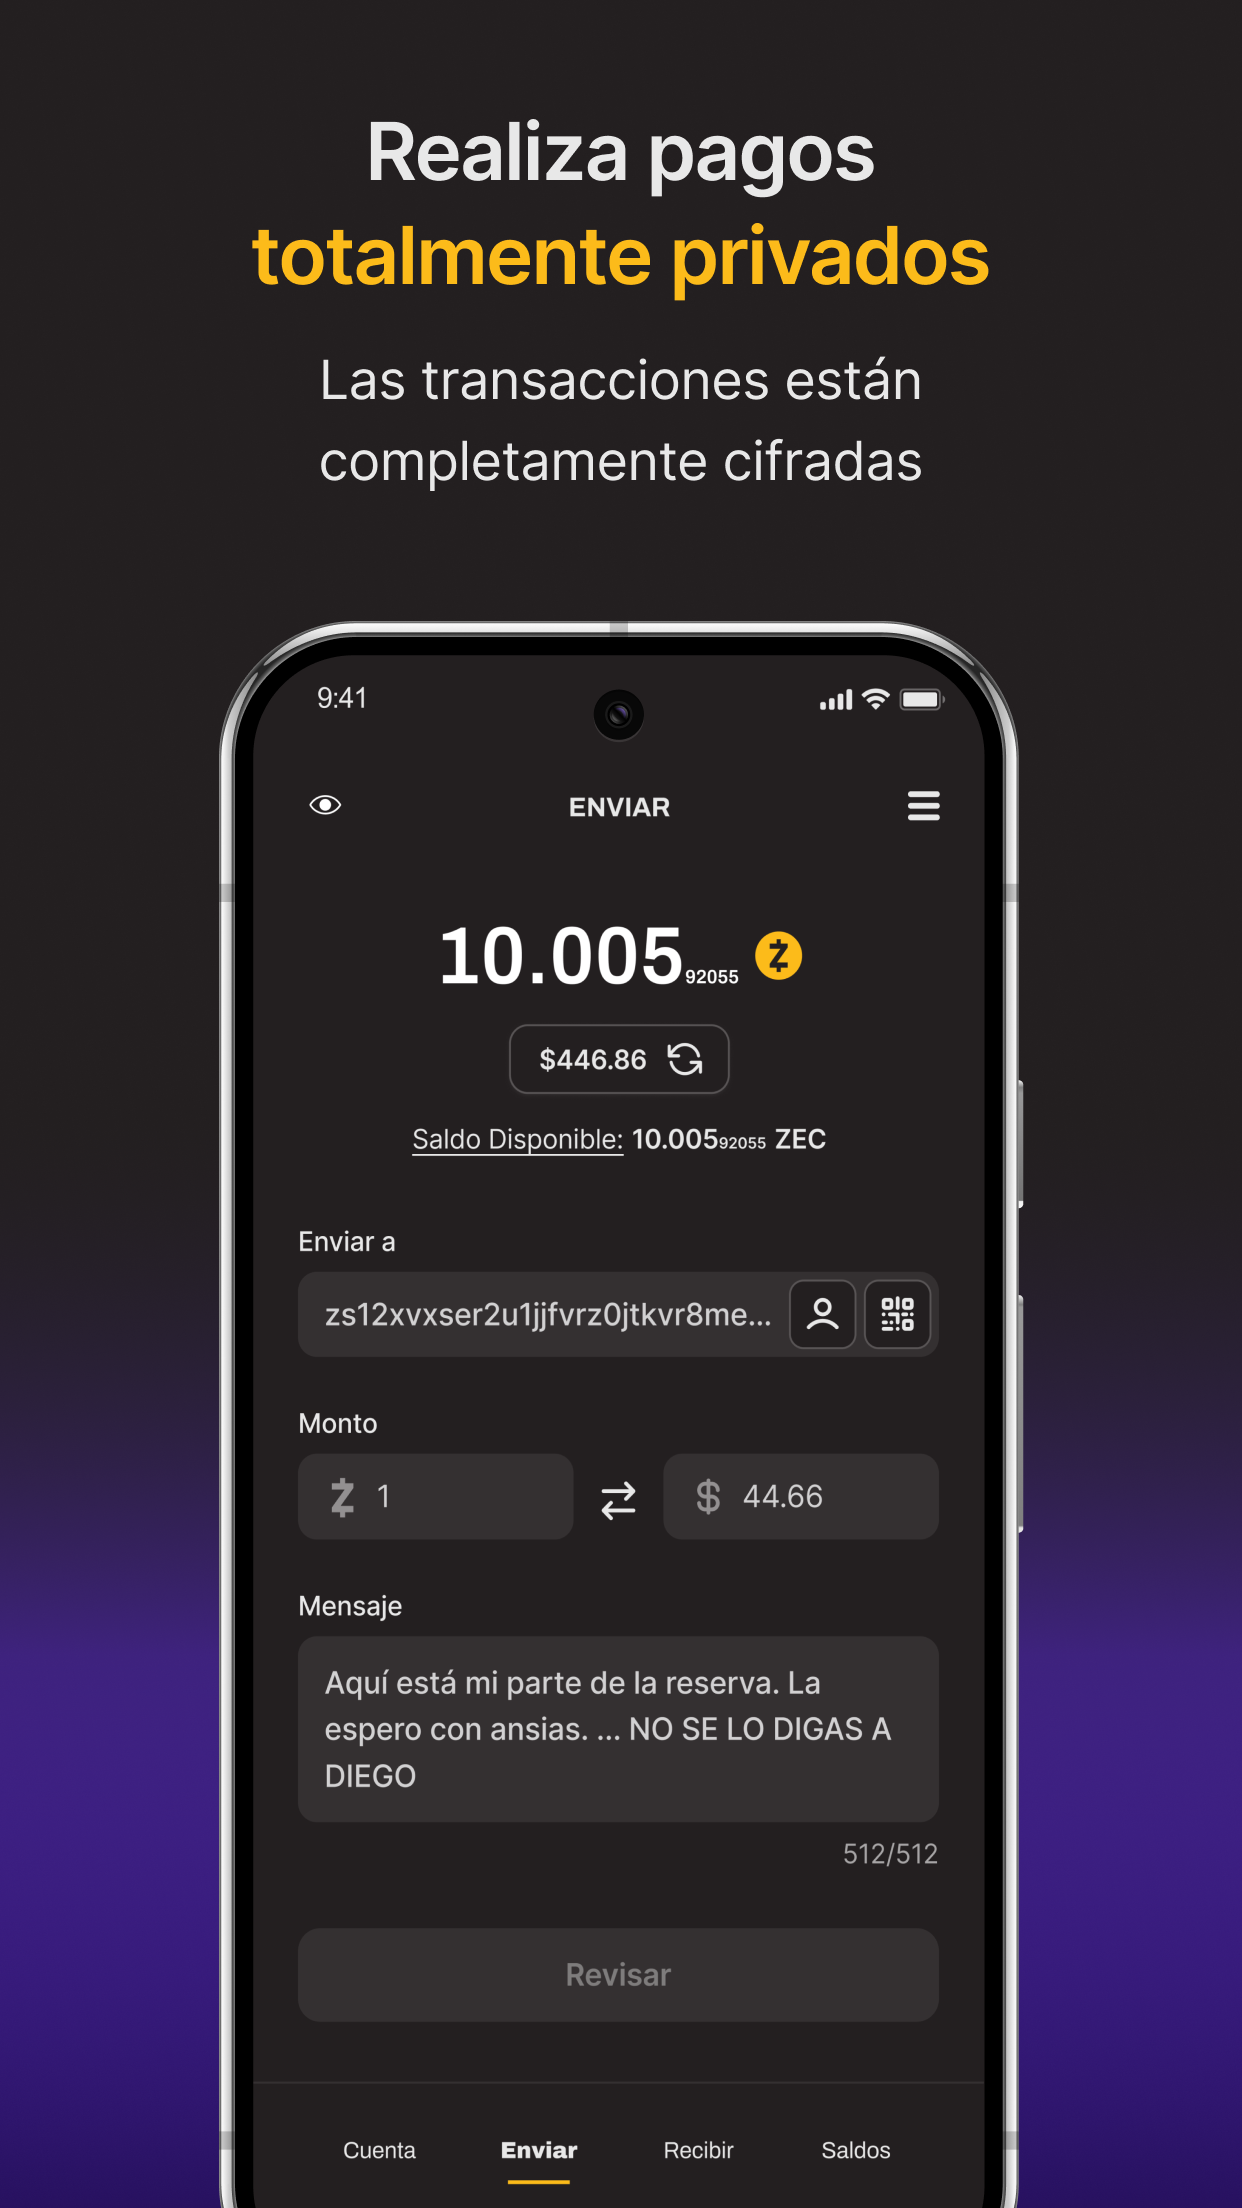
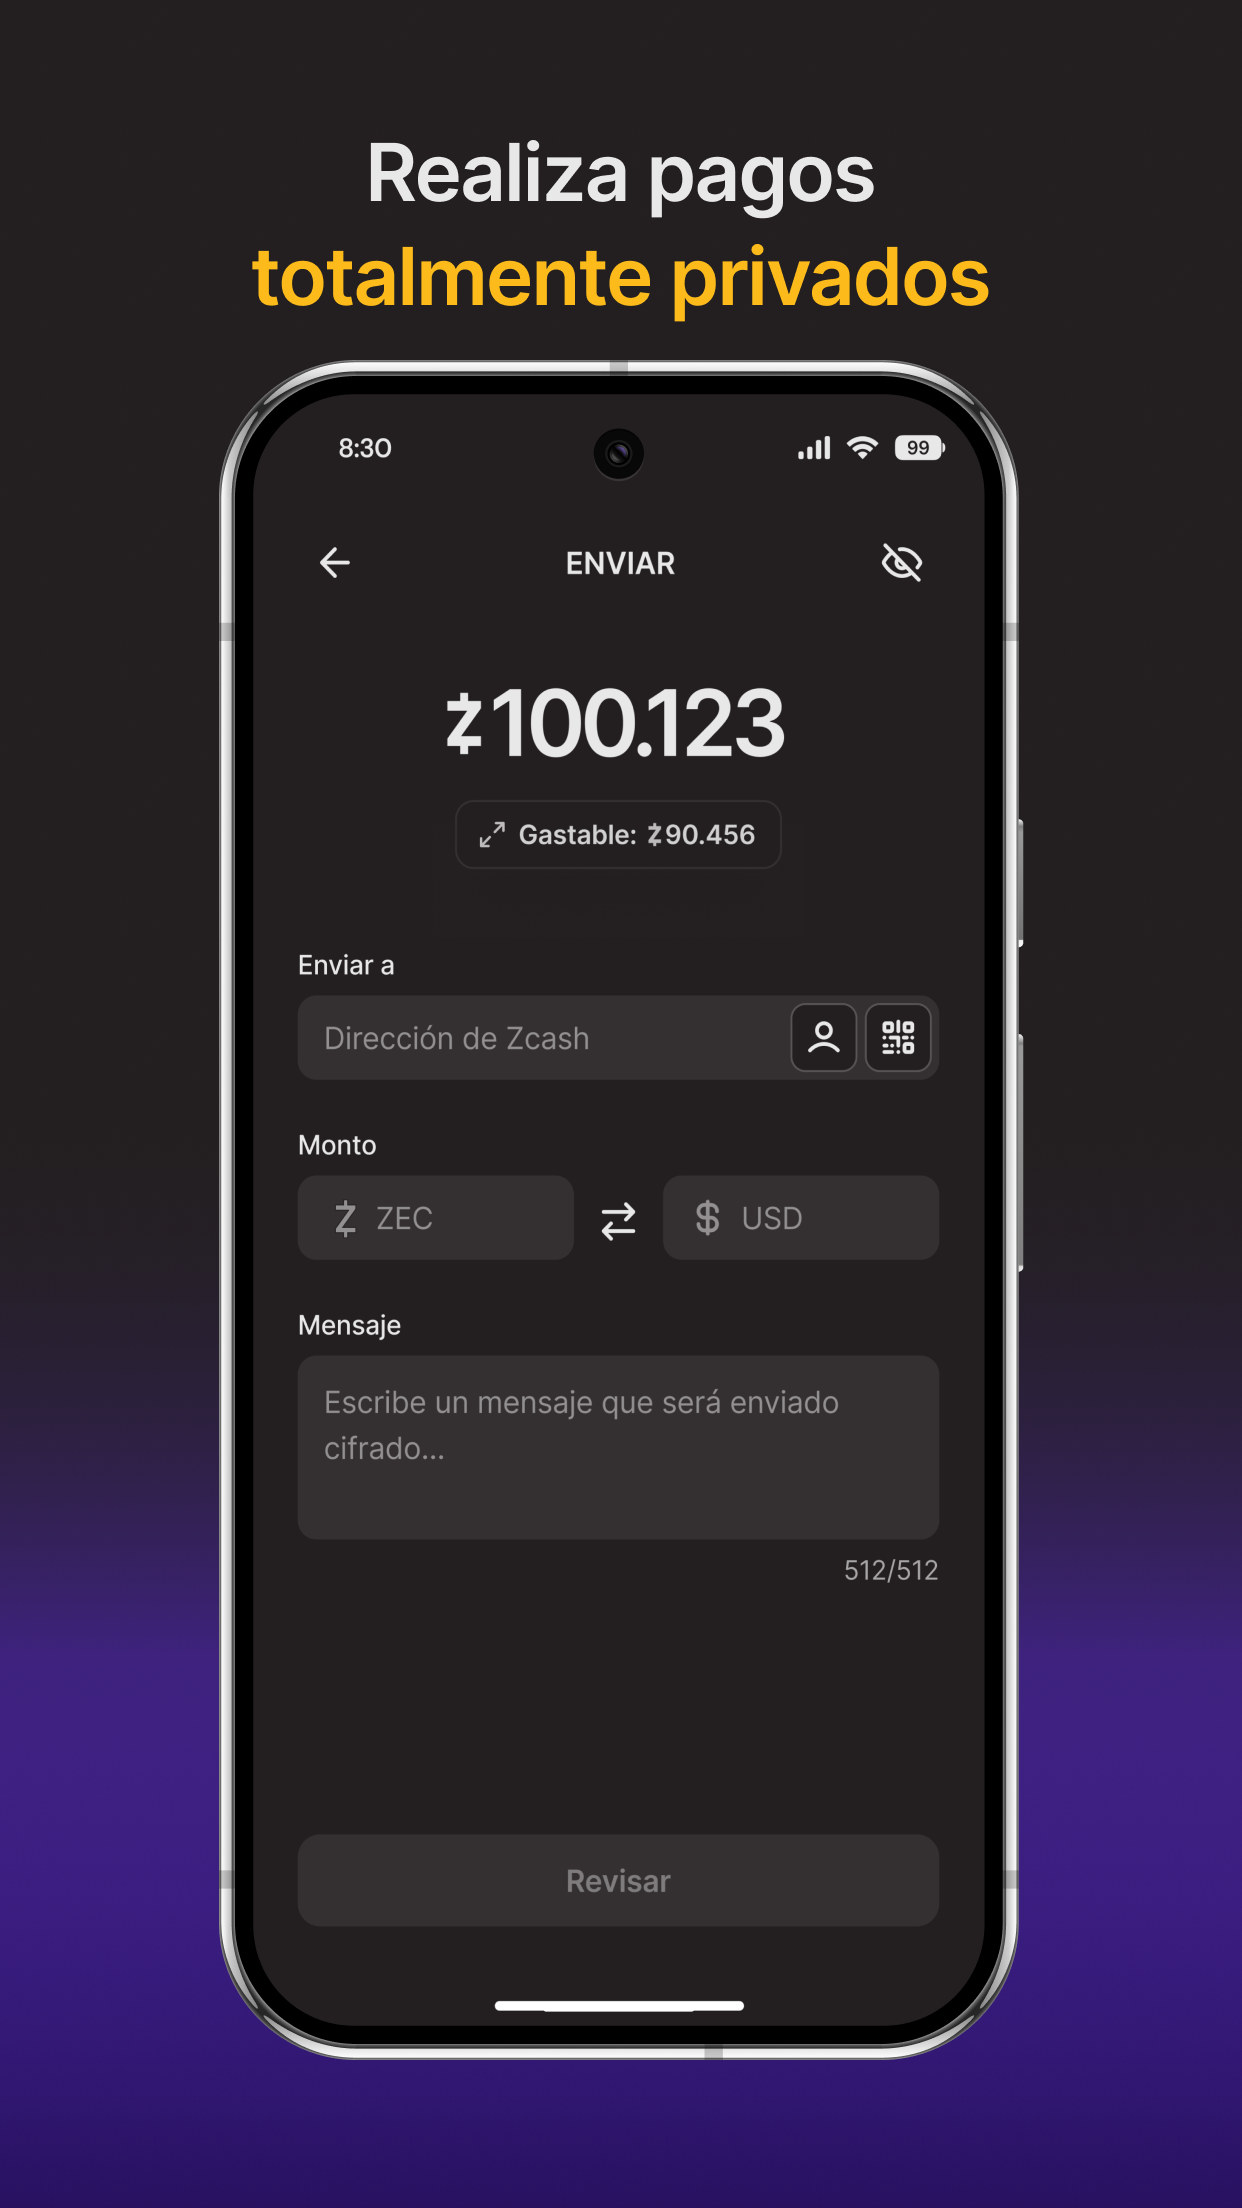
[#1925] Release: 2.3.0 (1160)
Closes #1925

diff --git a/docs/whatsNew/WHATS_NEW_ES.md b/docs/whatsNew/WHATS_NEW_ES.md
@@ -12,6 +12,13 @@ directly impact users rather than highlighting other key architectural updates.*
 
 ## [Unreleased]
 
+## [2.3.0 (1160)] - 2025-09-15
+
+### Añadido:
+- CrossPay con Near Intents
+- Utiliza ZEC protegido para realizar pagos entre cadenas con Zashi y Near Intents.
+- Accesible a través del nuevo botón Pagar en la pantalla de inicio.
+
 ## [2.3.0 (1159)] - 2025-09-15
 
 ### Añadido:

diff --git a/docs/whatsNew/WHATS_NEW_EN.md b/docs/whatsNew/WHATS_NEW_EN.md
@@ -12,6 +12,13 @@ directly impact users rather than highlighting other key architectural updates.*
 
 ## [Unreleased]
 
+## [2.3.0 (1160)] - 2025-09-15
+
+### Added:
+- CrossPay with Near Intents
+- Use shielded ZEC to make cross-chain payments with Zashi and Near Intents.
+- Accessible via the new Pay button on the home screen.
+
 ## [2.3.0 (1159)] - 2025-09-15
 
 ### Added:

diff --git a/CHANGELOG.md b/CHANGELOG.md
@@ -6,6 +6,14 @@ and this application adheres to [Semantic Versioning](https://semver.org/spec/v2
 
 ## [Unreleased]
 
+## [2.3.0 (1160)] - 2025-09-15
+
+### Added
+- New CrossPay feature available from Pay button via Homepage
+
+### Changed
+- Updated design of Homepage navigation buttons
+
 ## [2.3.0 (1159)] - 2025-09-15
 
 ### Added
